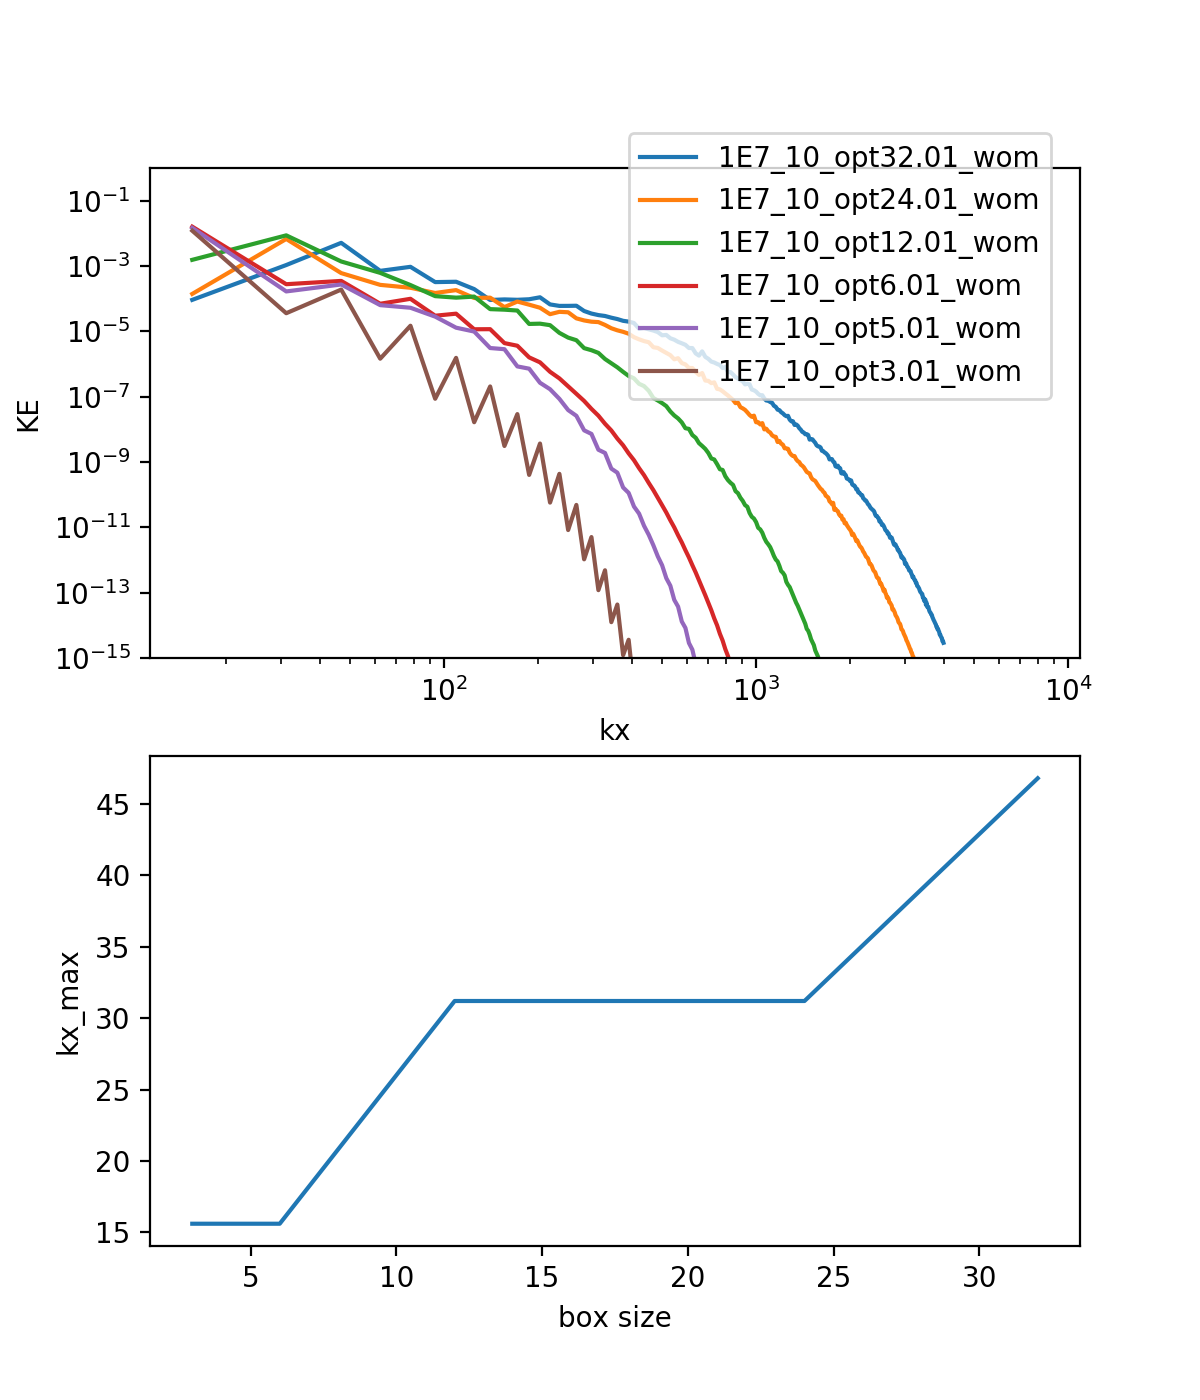
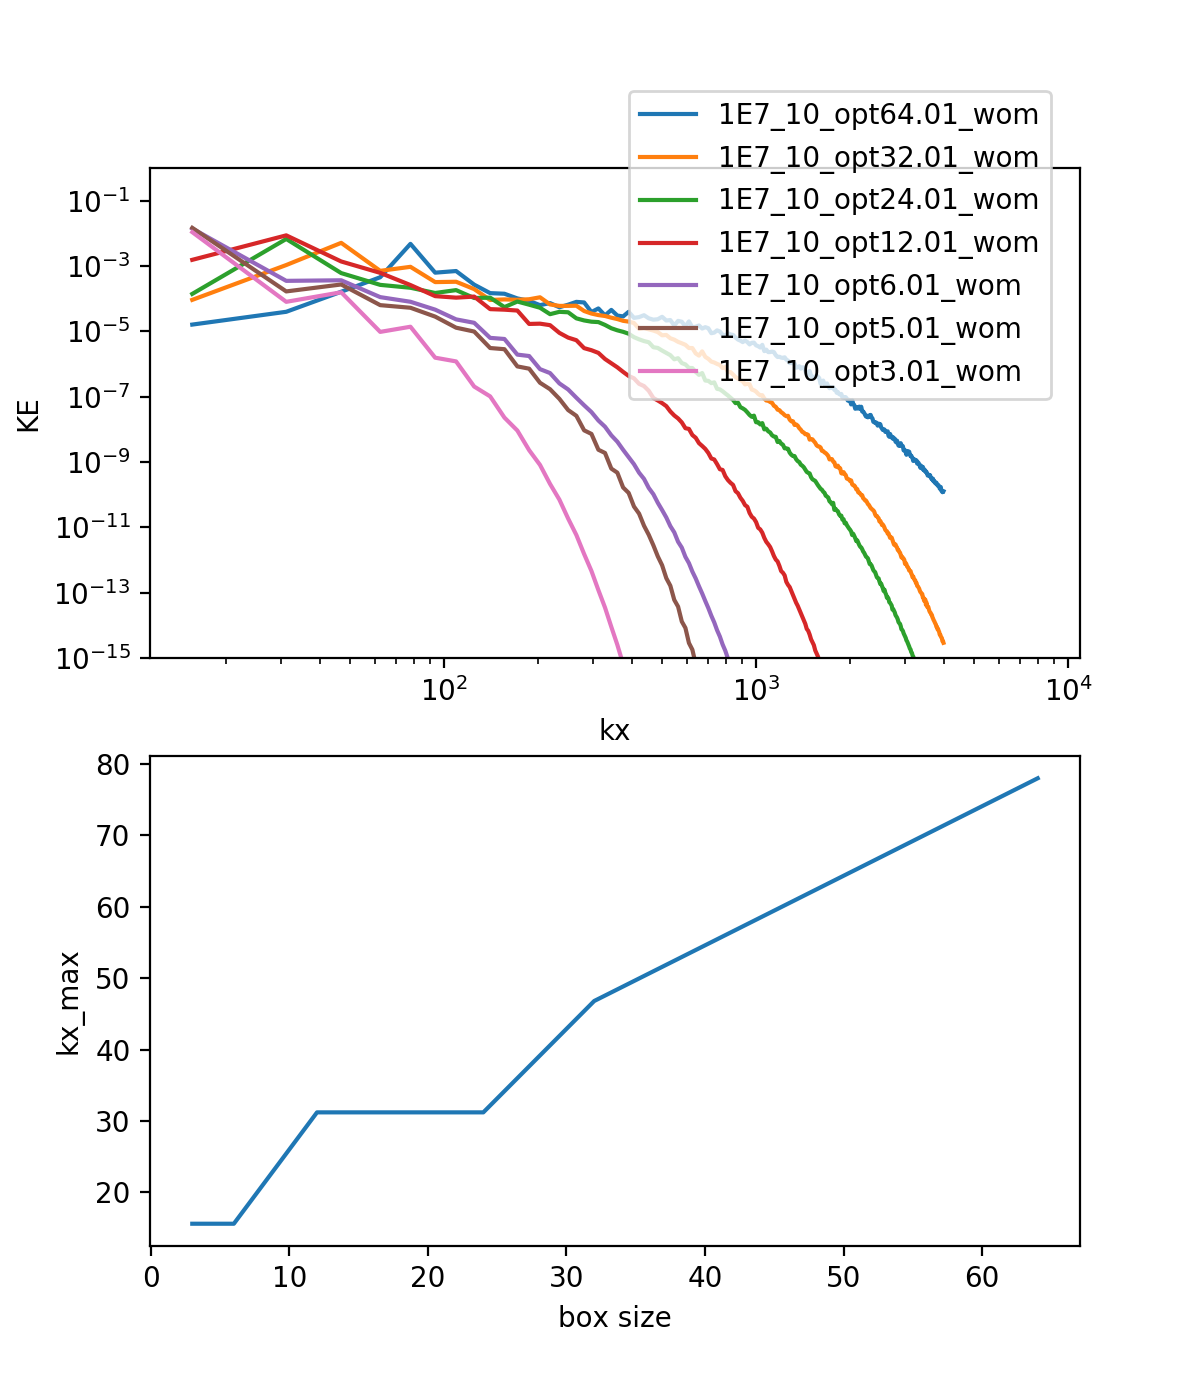
added section on computation of momentum BL, updated Nu v/s time plots (removed transient data), added a comparison of momentum BLs for various box sizes at Ra = 1E7, Pr = 10

diff --git a/cheb_code_doc.tex b/cheb_code_doc.tex
@@ -290,6 +290,11 @@
     \frac{1}{2}\frac{D\lr{|\vec{u}|^2 + |{T}^2|}}{D t} = \nu_*\vec u \cdot \lr{\lapl \vec{u}} - \vec u \cdot \nabla P  +  2(vT) + \nu_* T \lapl T\\
     \end{align}
     
+    \subsection{Momentum Boundary Layer}
+    
+    The thickness of momentum boundary layer is calculated from the vertical profiles of the squares of normal components of stresses summed over all dimensions $(/partial_x u)^2 + (/partial_y v)^2$ which is a measure of the total magnitude of normal stress. The horizontally averaged profile shows a well defined peak close to the bottom plate as shown in fig 25. The $z$ location corresponding to this peak is defined as the momentum boundary layer thickness. This location is considered to be the location with the strongest plume merging and convolution takes place.
+    
+    
      \section{Results}
      \subsection{Effect of Mean Flow}
      The presence of mean flow is found to be a deterrent to heat transport. Our simulation results show that the mean flow lowers the average $Nu$ in the flow as shown in fig 1 at $Pr = 4, Ra = 1E7$. This could be due to distortions introduced by the mean flow in the coherent structures responsible for heat transport. A profile of the mean flow at given time instant is shown in fig 2.
@@ -382,6 +387,12 @@
    	\label{fig:fig12}
    \end{figure}
 
+ \begin{figure}[!htb]
+ 	\includegraphics[width=\linewidth]{contours_1E7_4_64.png}
+ 	\caption{Temperature, horizontal and vertical velocity contours for $Ra = 1E7, Pr =4, l_b = 64* l_{opt} $ }
+ 	\label{fig:fig12}
+ \end{figure}
+
 A comparison of the energy spectra for the various cases are shown in Figures 13-15. The energy spectra is plotted along $y = 0$. Note that the length scale corresponding to the largest energy in all 3 cases keeps decreasing with increase in box size.
 
   \begin{figure}[!htb]
@@ -428,6 +439,15 @@ Figure 16 shows the variation of $Nu$ with time for the different cases and the 
      	\label{fig:fig18}
      \end{figure}
      
+     \clearpage
+     
+     \begin{figure}[!htb]
+     	\includegraphics[width=\linewidth]{contours_1E7_10_5.png}
+     	\caption{Temperature, horizontal and vertical velocity contours for $Ra = 1E7, Pr =10, l_b = 5* l_{opt} $ }
+     	\label{fig:fig20}
+     \end{figure}
+     
+     
      \begin{figure}[!htb]
      	\includegraphics[width=\linewidth]{contours_1E7_10_6.png}
      	\caption{Temperature, horizontal and vertical velocity contours for $Ra = 1E7, Pr =10, l_b = 6* l_{opt} $ }
@@ -435,10 +455,29 @@ Figure 16 shows the variation of $Nu$ with time for the different cases and the 
      \end{figure}
      
      \begin{figure}[!htb]
+     	\includegraphics[width=\linewidth]{contours_1E7_10_12.png}
+     	\caption{Temperature, horizontal and vertical velocity contours for $Ra = 1E7, Pr =10, l_b = 12* l_{opt} $ }
+     	\label{fig:fig20}
+     \end{figure}
+     
+     
+     \begin{figure}[!htb]
      	\includegraphics[width=\linewidth]{contours_1E7_10_24.png}
      	\caption{Temperature, horizontal and vertical velocity contours for $Ra = 1E7, Pr =10, l_b = 24* l_{opt} $ }
      	\label{fig:fig21}
      \end{figure}
+     
+       \begin{figure}[!htb]
+       	\includegraphics[width=\linewidth]{contours_1E7_10_32.png}
+       	\caption{Temperature, horizontal and vertical velocity contours for $Ra = 1E7, Pr =10, l_b = 32* l_{opt} $ }
+       	\label{fig:fig21}
+       \end{figure}
+       
+        \begin{figure}[!htb]
+        	\includegraphics[width=\linewidth]{contours_1E7_10_64.png}
+        	\caption{Temperature, horizontal and vertical velocity contours for $Ra = 1E7, Pr =10, l_b = 64* l_{opt} $ }
+        	\label{fig:fig21}
+        \end{figure}
      
      A comparison of the energy spectra for the various cases are shown in Figures 22-24. The energy spectra is plotted along $y = 0$. 
      
@@ -448,7 +487,6 @@ Figure 16 shows the variation of $Nu$ with time for the different cases and the 
       	\label{fig:fig22}
       \end{figure}
       
-       \clearpage
      
      \begin{figure}[!htb]
      	\includegraphics[width=\linewidth]{KE_1E7_10.png}
@@ -462,5 +500,12 @@ Figure 16 shows the variation of $Nu$ with time for the different cases and the 
       	\label{fig:fig24}
       \end{figure}
      
+     A comparison of the momentum boundary layer for the various cases are shown in Figures 25.  
+     
+     \begin{figure}[!htb]
+     	\includegraphics[width=\linewidth]{BL_1E7_10.png}
+     	\caption{ Vertical profile of total normal stress magnitude at $Ra = 1E7, Pr =10$ for various box sizes}
+     	\label{fig:fig25}
+     \end{figure}
     
 \end{document}
